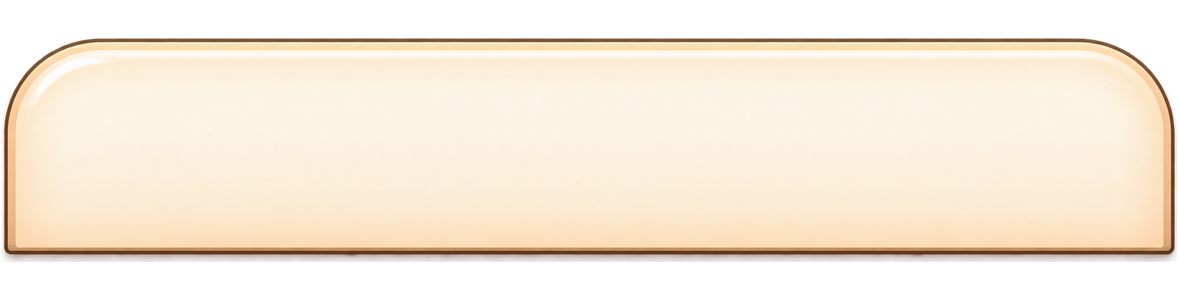
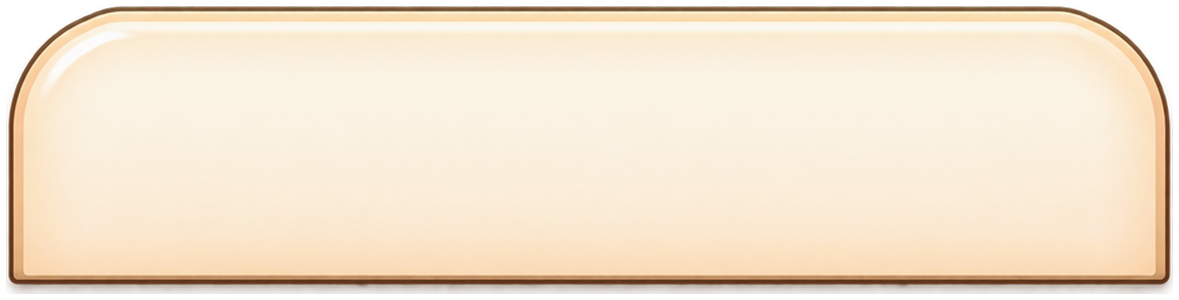
Add section 13 UI assets and tighten padding: tabbar

Changed region(s): [[0.0, 0.0, 1.0, 0.99]]

diff --git a/app/assets/ui/provenance/prompts-tabbar.md b/app/assets/ui/provenance/prompts-tabbar.md
@@ -128,3 +128,7 @@ Superseded attempt: C:\Users\User\.codex\generated_images\01a16dc8-84e9-7e73-953
 
 Prompt: ONE standalone globe latitude longitude symbol warm brown grey same silhouette both states. UI raster asset exact target 150x150, aspect150:150. Single isolated component only, NOT a screen or collection. Cozy warm cream/brown/orange paper UI family, softly puffy rounded forms, thin upper-left highlight very soft low contrast downward shadow, readable simple silhouette. Palette #FFF8F0 #4A3B32 #F28B20 #5E9B3F #BFD8FF #E1D4FF #E5A23B as appropriate. No actual cats or characters except explicitly requested silhouette or tiny map icons. NO flowers NO extra leaves NO ornamental corners NO extra objects. Absolutely NO TEXT NO LETTERS NO NUMERALS except the requested question glyph. True transparent background clean alpha no fringe no stray specks. Orthographic front view. Artwork centered and fits canvas with minimal margin. If 9slice, flat undecorated central bands and all edge midpoints stretch safe.
 
+
+## Section13 stretch metadata audit
+
+See stretch-normalization.json for transparentmargin measurements and any geometric9slice resizing. Final cap insets are recorded in manifest.json. No new image-generation prompt needed for resize normalization.
